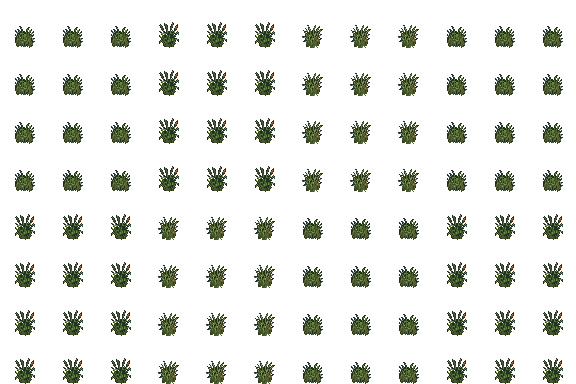
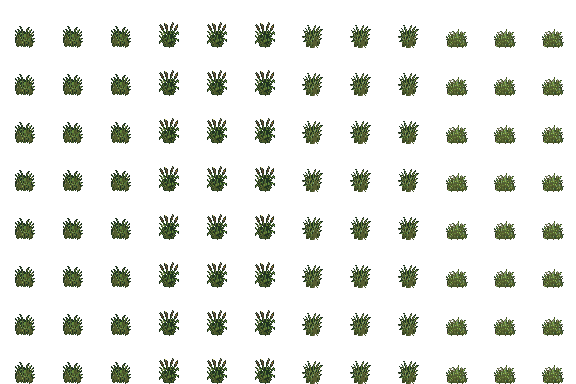
[claude] ART.NAT.INDUCT batch A2: fruit trees, three flower clumps, sapling and the fourth tuft as RMMZ still sprites
Six new rows in tools/art/still_charsets.json and the fourth tuft entry; the builder output under game/img/characters; the sapling object
uses its sprite instead of a stock tile; the test covers the new rows with six DEC-016-amendment size exceptions, the sapling and
every mapped sprite being used by a world object; contact_sheet_still_charsets.js makes the evidence (DEC-085 item 5).

diff --git a/tools/art/test_still_charsets.js b/tools/art/test_still_charsets.js
@@ -15,6 +15,39 @@ function getSha256(buf) {
     return crypto.createHash('sha256').update(buf).digest('hex');
 }
 
+// Size exceptions (DEC-016 amendment, Owner 2026-10-01: "I will solve size mismatches when I see them in the game"). An entry listed
+// here is accepted although its drawn size misses its catalogue slot or envelope: validate_art may refuse it ONLY with the listed
+// codes. Any other refusal (alpha, palette, template, approval) still fails. Because validate_art stops at the first refusal, an
+// exception entry's alpha and palette are checked here directly. The sheet and sidecar then follow the mapping's frame (and its
+// optional "anchor") instead of the catalogue slot.
+const SIZE_EXCEPTIONS = {
+    'SURFACE_SHARED_TREE_FRUIT-TREE_B-V1_DEFAULT': ['DIMS_MISMATCH', 'SCALE_OUT_OF_ENVELOPE'],       // drawn 95x98, frame 96x144
+    'SURFACE_SHARED_TREE_FRUIT-TREE-BARE_B-V1_DEFAULT': ['DIMS_MISMATCH', 'SCALE_OUT_OF_ENVELOPE'],  // drawn 94x98, frame 96x144
+    'SURFACE_SHARED_FLORA_FLOWERS_B-V1_DEFAULT': ['SCALE_OUT_OF_ENVELOPE'],                          // 21 tall, envelope 20
+    'SURFACE_SHARED_FLORA_FLOWERS-PURPLE_B-V1_DEFAULT': ['SCALE_OUT_OF_ENVELOPE'],
+    'SURFACE_SHARED_FLORA_FLOWERS-BLUE_B-V1_DEFAULT': ['SCALE_OUT_OF_ENVELOPE'],
+    'SURFACE_SHARED_FLORA_GRASS-TUFT_B-V4_DEFAULT': ['SCALE_OUT_OF_ENVELOPE']                         // 19 tall, envelope minimum 20
+};
+
+function paletteSet() {
+    const hex = fs.readFileSync(path.join(__dirname, '../../art/palette/deus_master_world_palette_v1.hex'), 'utf8');
+    return new Set(hex.split(/\r?\n/).map(s => s.trim().replace(/^#/, '').toLowerCase()).filter(s => /^[0-9a-f]{6}$/.test(s)));
+}
+
+// Alpha is 0 or 255 and every opaque colour is in the master palette (what validate_art checks after its size checks).
+function pixelProblems(png, palette) {
+    let semi = 0, off = 0;
+    for (let i = 0; i < png.width * png.height; i++) {
+        const a = png.data[i * 4 + 3];
+        if (a !== 0 && a !== 255) semi++;
+        if (a === 255) {
+            const h = [0, 1, 2].map(k => png.data[i * 4 + k].toString(16).padStart(2, '0')).join('');
+            if (!palette.has(h)) off++;
+        }
+    }
+    return { semi, off };
+}
+
 function check() {
     let failures = 0;
     const fail = (msg) => { console.error("FAIL:", msg); failures++; };
@@ -39,19 +72,31 @@ function check() {
         }
     }
     
-    // 3. validate_art ACCEPTS every master
-    const tempDir = path.join(__dirname, 'temp_templates');
+    // 3. validate_art ACCEPTS every master (a size exception may be refused only with its listed codes)
+    const os = require('os');
+    const tempDir = fs.mkdtempSync(path.join(os.tmpdir(), 'still-charsets-templates-'));
+    const palette = paletteSet();
     try {
-        execSync(`node tools/art/make_blank_templates.js --catalogue art/catalogue/catalogue.json --out tools/art/temp_templates`, { cwd: path.join(__dirname, '../../'), stdio: 'pipe' });
+        execSync(`node tools/art/make_blank_templates.js --catalogue art/catalogue/catalogue.json --out "${tempDir}"`, { cwd: path.join(__dirname, '../../'), stdio: 'pipe' });
     } catch (e) {}
-    
+
     for (const entryId of checkedMasters) {
         try {
-            execSync(`node tools/art/validate_art.js art/approved/${entryId}.png --entry ${entryId} --catalogue art/catalogue/catalogue.json --approvals art/APPROVALS.md --templates tools/art/temp_templates`, { cwd: path.join(__dirname, '../../'), stdio: 'pipe' });
+            execSync(`node tools/art/validate_art.js art/approved/${entryId}.png --entry ${entryId} --catalogue art/catalogue/catalogue.json --approvals art/APPROVALS.md --templates "${tempDir}"`, { cwd: path.join(__dirname, '../../'), stdio: 'pipe' });
         } catch (e) {
-            fail(`validate_art rejected ${entryId}:\n` + e.stdout.toString() + e.stderr.toString());
+            const text = e.stdout.toString() + e.stderr.toString();
+            const codes = [...text.matchAll(/^REFUSE ([A-Z_]+)/gm)].map(m => m[1]);
+            const allowed = SIZE_EXCEPTIONS[entryId];
+            if (allowed && codes.length && codes.every(c => allowed.includes(c))) {
+                const p = pixelProblems(decodePNG(fs.readFileSync(path.join(approvedDir, entryId + '.png'))), palette);
+                if (p.semi || p.off) fail(`size exception ${entryId}: ${p.semi} semi-transparent and ${p.off} off-palette pixel(s)`);
+                else console.log(`NOTE: size exception ${entryId}: validate_art refused ${codes.join(', ')} (allowed, DEC-016 amendment); alpha and palette checked directly`);
+            } else {
+                fail(`validate_art rejected ${entryId}:\n` + text);
+            }
         }
     }
+    fs.rmSync(tempDir, { recursive: true, force: true });
     
     // 1, 4, 5, 7. Sheets and Sidecars
     for (const item of mapping) {
@@ -67,9 +112,13 @@ function check() {
         
         // 5. Sidecar properties
         const repEntry = catalogue.entries.find(e => e.id === (item.isV8 ? item.entries[0] : item.entryId));
-        if (sidecar.frameWidth !== repEntry.slot.w) fail(`Sidecar frameWidth ${sidecar.frameWidth} != slot w ${repEntry.slot.w}`);
-        if (sidecar.frameHeight !== repEntry.slot.h) fail(`Sidecar frameHeight ${sidecar.frameHeight} != slot h ${repEntry.slot.h}`);
-        if (sidecar.anchor[0] !== repEntry.anchor.x || sidecar.anchor[1] !== repEntry.anchor.y) fail(`Sidecar anchor [${sidecar.anchor}] != catalogue anchor [${repEntry.anchor.x},${repEntry.anchor.y}]`);
+        // A size exception follows the mapping's frame and optional anchor; every other entry follows the catalogue slot and anchor.
+        const exc = !item.isV8 && SIZE_EXCEPTIONS[item.entryId];
+        const wantW = exc ? item.frameWidth : repEntry.slot.w, wantH = exc ? item.frameHeight : repEntry.slot.h;
+        const wantAnchor = exc && item.anchor ? item.anchor : [repEntry.anchor.x, repEntry.anchor.y];
+        if (sidecar.frameWidth !== wantW) fail(`Sidecar frameWidth ${sidecar.frameWidth} != slot w ${wantW}`);
+        if (sidecar.frameHeight !== wantH) fail(`Sidecar frameHeight ${sidecar.frameHeight} != slot h ${wantH}`);
+        if (sidecar.anchor[0] !== wantAnchor[0] || sidecar.anchor[1] !== wantAnchor[1]) fail(`Sidecar anchor [${sidecar.anchor}] != expected anchor [${wantAnchor}]`);
         
         // 4. Sheet size
         if (item.isV8) {
@@ -150,6 +199,13 @@ function check() {
         if (!fs.existsSync(stumpSprite)) fail(`Stump sprite ${stumpSprite} does not exist`);
     }
     
+    // 8. every mapped sprite is drawn by a world object; the sapling points at its new sprite and no tile (DEUS_Objects frameFor draws tile first)
+    for (const item of mapping) {
+        if (!worldCatalog.objects.some(o => o.image === item.sprite)) fail(`No world object uses ${item.sprite}`);
+    }
+    const sapling = worldCatalog.objects.find(o => o.id === 'sapling');
+    if (!sapling || sapling.image !== '!$UF_Sapling' || sapling.tile) fail('the sapling object must use image !$UF_Sapling and no tile');
+
     if (failures > 0) {
         console.error(`${failures} check(s) failed.`);
         process.exit(1);

diff --git a/tools/art/contact_sheet_still_charsets.js b/tools/art/contact_sheet_still_charsets.js
@@ -1,0 +1,65 @@
+#!/usr/bin/env node
+'use strict';
+/**
+ * tools/art/contact_sheet_still_charsets.js
+ *
+ * Evidence for an art-swap lane (DEC-085 item 5): reads the committed game sheets, not the masters, and draws every sprite in
+ * tools/art/still_charsets.json the way RMMZ draws it standing: the middle column of the first row of its 3x4 block (the "stand"
+ * frame), at 2x, on 3x4 tiles of 48 px, with the sidecar anchor placed on the bottom edge of the middle tile column and marked
+ * with one red pixel. The eight blocks of a V8 sheet are drawn one by one. A wrong cell, frame size or anchor shows.
+ *
+ * Usage: node tools/art/contact_sheet_still_charsets.js <out.png> [<sprite name substring> ...]
+ *   With substrings, only sprites whose name contains one of them are drawn.
+ */
+const fs = require('fs');
+const path = require('path');
+const { readPNG } = require('../png_read');
+const { writePNG } = require('../png_util');
+
+const ROOT = path.join(__dirname, '../..');
+const CHARS = path.join(ROOT, 'game/img/characters');
+const SCALE = 2, TILE = 48, COLS = 6, PATCH_W = TILE * 3, PATCH_H = TILE * 4, GAP = 8;
+
+const out = process.argv[2];
+if (!out) { console.error('usage: node tools/art/contact_sheet_still_charsets.js <out.png> [<sprite name substring> ...]'); process.exit(2); }
+const only = process.argv.slice(3);
+const mapping = JSON.parse(fs.readFileSync(path.join(__dirname, 'still_charsets.json'), 'utf8'));
+
+const items = [];
+for (const m of mapping) {
+    if (only.length && !only.some(o => m.sprite.includes(o))) continue;
+    const sidecar = JSON.parse(fs.readFileSync(path.join(CHARS, m.sprite + '.json'), 'utf8'));
+    const png = readPNG(path.join(CHARS, m.sprite + '.png'));
+    const fw = m.frameWidth, fh = m.frameHeight;
+    const blocks = m.isV8 ? 8 : 1;
+    for (let k = 0; k < blocks; k++) {
+        const sx = (k % 4) * 3 * fw + fw, sy = Math.floor(k / 4) * 4 * fh; // stand frame: middle column, first row of the block
+        items.push({ png, sx, sy, fw, fh, anchor: sidecar.anchor || [fw / 2, fh - 1] });
+    }
+}
+if (!items.length) { console.error('no sprite matched'); process.exit(2); }
+
+const rows = Math.ceil(items.length / COLS);
+const W = COLS * (PATCH_W * SCALE + GAP) + GAP, H = rows * (PATCH_H * SCALE + GAP) + GAP;
+const buf = Buffer.alloc(W * H * 4);
+for (let i = 0; i < W * H; i++) { buf[i * 4] = 40; buf[i * 4 + 1] = 44; buf[i * 4 + 2] = 48; buf[i * 4 + 3] = 255; }
+const put = (x, y, c) => { if (x < 0 || y < 0 || x >= W || y >= H) return; const k = (y * W + x) * 4; buf[k] = c[0]; buf[k + 1] = c[1]; buf[k + 2] = c[2]; };
+const dot = (ox, oy, x, y, c) => { for (let j = 0; j < SCALE; j++) for (let i = 0; i < SCALE; i++) put(ox + x * SCALE + i, oy + y * SCALE + j, c); };
+
+items.forEach((it, n) => {
+    const ox = GAP + (n % COLS) * (PATCH_W * SCALE + GAP), oy = GAP + Math.floor(n / COLS) * (PATCH_H * SCALE + GAP);
+    for (let y = 0; y < PATCH_H; y++) for (let x = 0; x < PATCH_W; x++) {
+        const odd = (Math.floor(x / TILE) + Math.floor(y / TILE)) % 2;
+        dot(ox, oy, x, y, (x % TILE === 0 || y % TILE === 0) ? [70, 84, 52] : odd ? [92, 108, 66] : [100, 116, 72]);
+    }
+    const ax = PATCH_W / 2, ay = PATCH_H - 1; // anchor target: centre of the middle tile column, bottom pixel of the bottom tile row
+    const dx = ax - it.anchor[0], dy = ay - it.anchor[1];
+    for (let y = 0; y < it.fh; y++) for (let x = 0; x < it.fw; x++) {
+        const c = it.png.px(it.sx + x, it.sy + y);
+        if ((c[3] === undefined ? 255 : c[3]) < 128) continue;
+        dot(ox, oy, dx + x, dy + y, c);
+    }
+    dot(ox, oy, ax, ay, [255, 0, 0]);
+});
+writePNG(out, W, H, buf);
+console.log(`${out}: ${W}x${H}, ${items.length} frame(s) from ${mapping.length} mapping row(s)`);

diff --git a/tools/art/build_still_charsets.js b/tools/art/build_still_charsets.js
@@ -114,7 +114,7 @@ function writeSidecar(item, repEntryId, masterSha256) {
         name: oldSidecar.name || (oldSidecar.id || id),
         frameWidth: item.frameWidth,
         frameHeight: item.frameHeight,
-        anchor: [entry.anchor.x, entry.anchor.y],
+        anchor: item.anchor || [entry.anchor.x, entry.anchor.y], // a mapping row may set the anchor (a size exception drawn in a taller frame than its catalogue slot)
         footprint: oldSidecar.footprint || (entry.footprint ? [entry.footprint.w, entry.footprint.h] : [1, 1]),
         passable: oldSidecar.passable !== undefined ? oldSidecar.passable : false,
         under: oldSidecar.under !== undefined ? oldSidecar.under : false,

diff --git a/tasks/ART.NAT.INDUCT/lane-gm/REPORT.md b/tasks/ART.NAT.INDUCT/lane-gm/REPORT.md
@@ -1,0 +1,24 @@
+## What changed
+- Batch A2 of the PM-chosen natural-world art is in the game as RMMZ still sprites: the fruit tree and the bare fruit tree (96x144 frames, anchor (48,143)), the red-yellow, purple and blue flower clumps (`!$UF_Wildflowers`, `!$UF_Flowers_Purple`, `!$UF_Flowers_Blue`), the sapling (`!$UF_Sapling`, 48x96), and the fourth grass tuft (`!UF_GrassTuft_V8` now holds four variants, cycling 1,2,3,4,1,2,3,4).
+- `game/data/DEUS_WorldCatalog.json`: the `sapling` object drops its stock tile and tint and uses `"image": "!$UF_Sapling"` (`DEUS_Objects.js` `frameFor` draws `tile` before `image`).
+- `tools/art/still_charsets.json` (six rows, the fourth tuft entry, and an `anchor` on the two fruit-tree rows), `tools/art/build_still_charsets.js` (a mapping row may set the anchor), `tools/art/test_still_charsets.js` (new rows; a `SIZE_EXCEPTIONS` list for the six pieces a pixel or two outside their catalogue size, per the DEC-016 amendment; alpha and palette checked directly for them; every mapped sprite must be used by a world object; the sapling check; templates now go to a temp folder instead of `tools/art/temp_templates`), and `tools/art/contact_sheet_still_charsets.js` (the evidence script).
+- The seven masters and their PM YEA ledger rows came in the lane's opening commit.
+
+## How I tested it
+- `node tools/check_deus_syntax.js`: 62 files, 0 errors. `node tools/art/test_still_charsets.js`: `All checks passed.`, with a NOTE line for each of the six size exceptions.
+- Provocations, each exit 1 and the test back to exit 0 after restore: a pixel of the fruit tree's first cell (`Sheet !$UF_Fruit_Tree does not match master`), a pixel of tuft block 3 (`V8 Block 3 ... does not match master ...GRASS-TUFT_B-V4`), the fruit tree anchor off by one (`Sidecar anchor [48,142] != expected anchor [48,143]`), the sapling object back on its stock tile (`No world object uses !$UF_Sapling`), the blue flowers' ledger row removed (`No YEA ledger row`), and a semi-transparent pixel in an exception master (validate_art refuses a code outside the allowed list).
+- Evidence: `node tools/art/contact_sheet_still_charsets.js tasks/ART.NAT.INDUCT/lane-gm/evidence/contact_sheet_batch_a2.png Fruit_Tree Wildflowers Flowers_Purple Flowers_Blue Sapling GrassTuft`.
+
+## Evidence
+- `evidence/contact_sheet_batch_a2.png` (1784x1184, opened and described): 14 frames on a 3x4-tile grass grid, each drawn from the committed sheet at 2x with the sidecar anchor as a red pixel on the bottom edge of the middle tile column. Row 1: the fruit tree (a dark broadleaf crown with orange fruit, base on the tile edge), the bare fruit tree (grey branches, base on the edge), the red-yellow, purple and blue flower clumps, the sapling (a thin brown trunk with a few green leaves). Rows 2 and 3: the eight tuft blocks; blocks 3 and 7 are the pale fourth tuft, the others the three earlier tufts. Nothing is cropped and nothing animates (`stand` is frame 1).
+
+## Not done / known problems
+- No New Game or F5 scene was captured: the in-game look of the new fruit trees and flowers, the gather action turning a fruit tree into its picked form, and the sapling's new sprite in a generated world were not observed. The Owner sees the art in game.
+- Sizes: the fruit trees are drawn 95x98 and 94x98 in 96x144 frames (their catalogue rows say 96x96); the flower clumps are 21 tall against an envelope of 20; tuft 4 is 19 tall against a minimum of 20. The Owner fixes size mismatches in game (DEC-016 amendment).
+- The wildflowers sprite's catalogue row `FLOWERS_B-V1_DEFAULT` is the red-yellow clump; the catalogue rows are not rebuilt in this lane (the catalogue lanes own them).
+
+## Try it in RMMZ
+1. Start a New Game and walk to a broadleaf forest and a meadow. Expected: fruit trees, flowers and saplings show the new U7-style stills; picking a fruit tree swaps it for the bare tree; the tall grass shows four different tufts.
+
+## Decisions needed
+- None.
